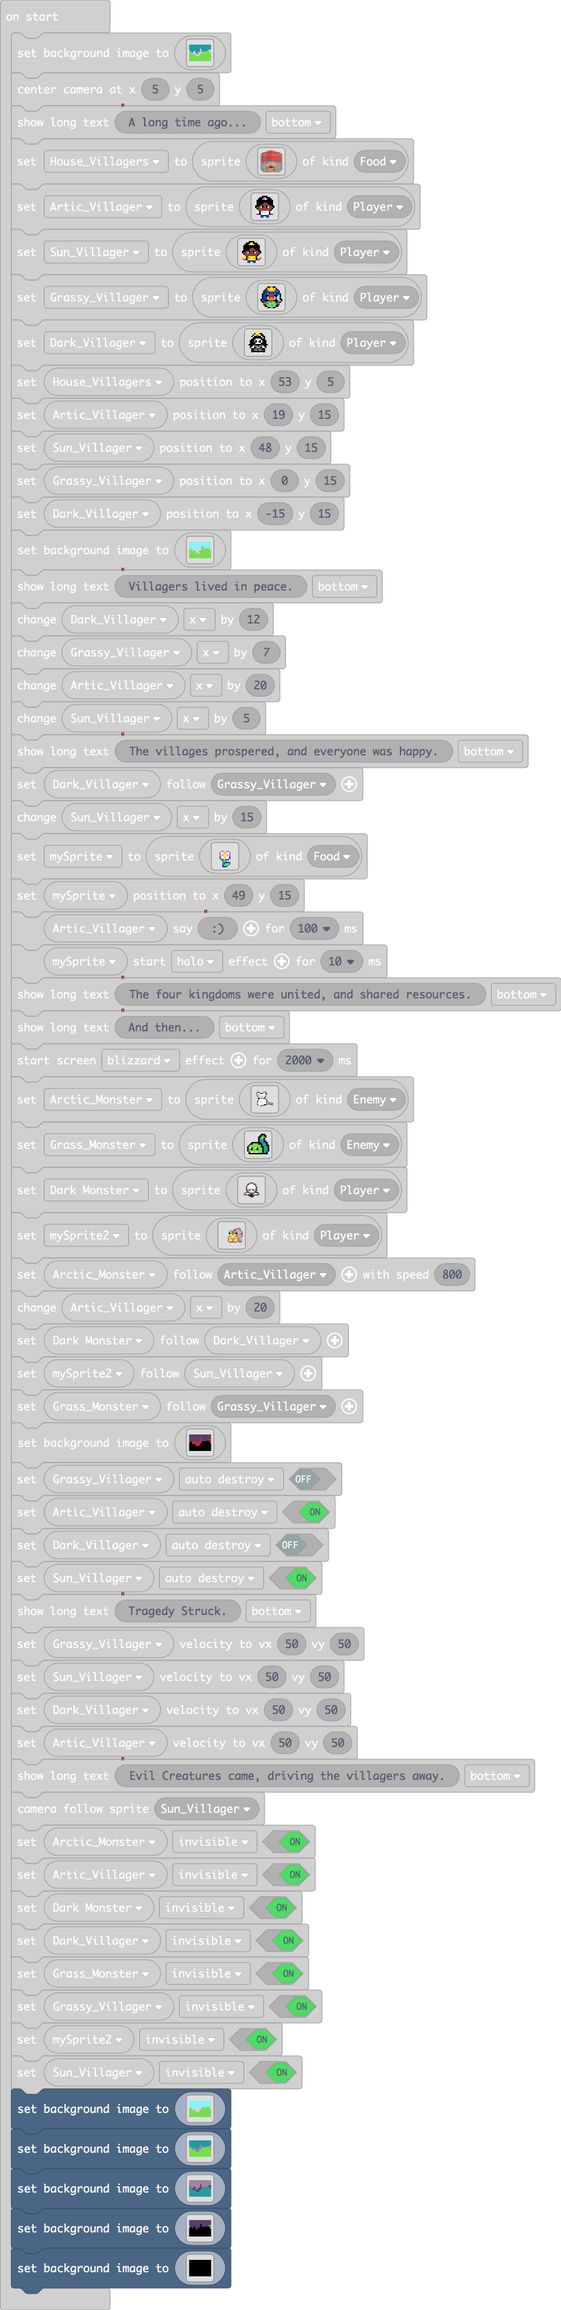
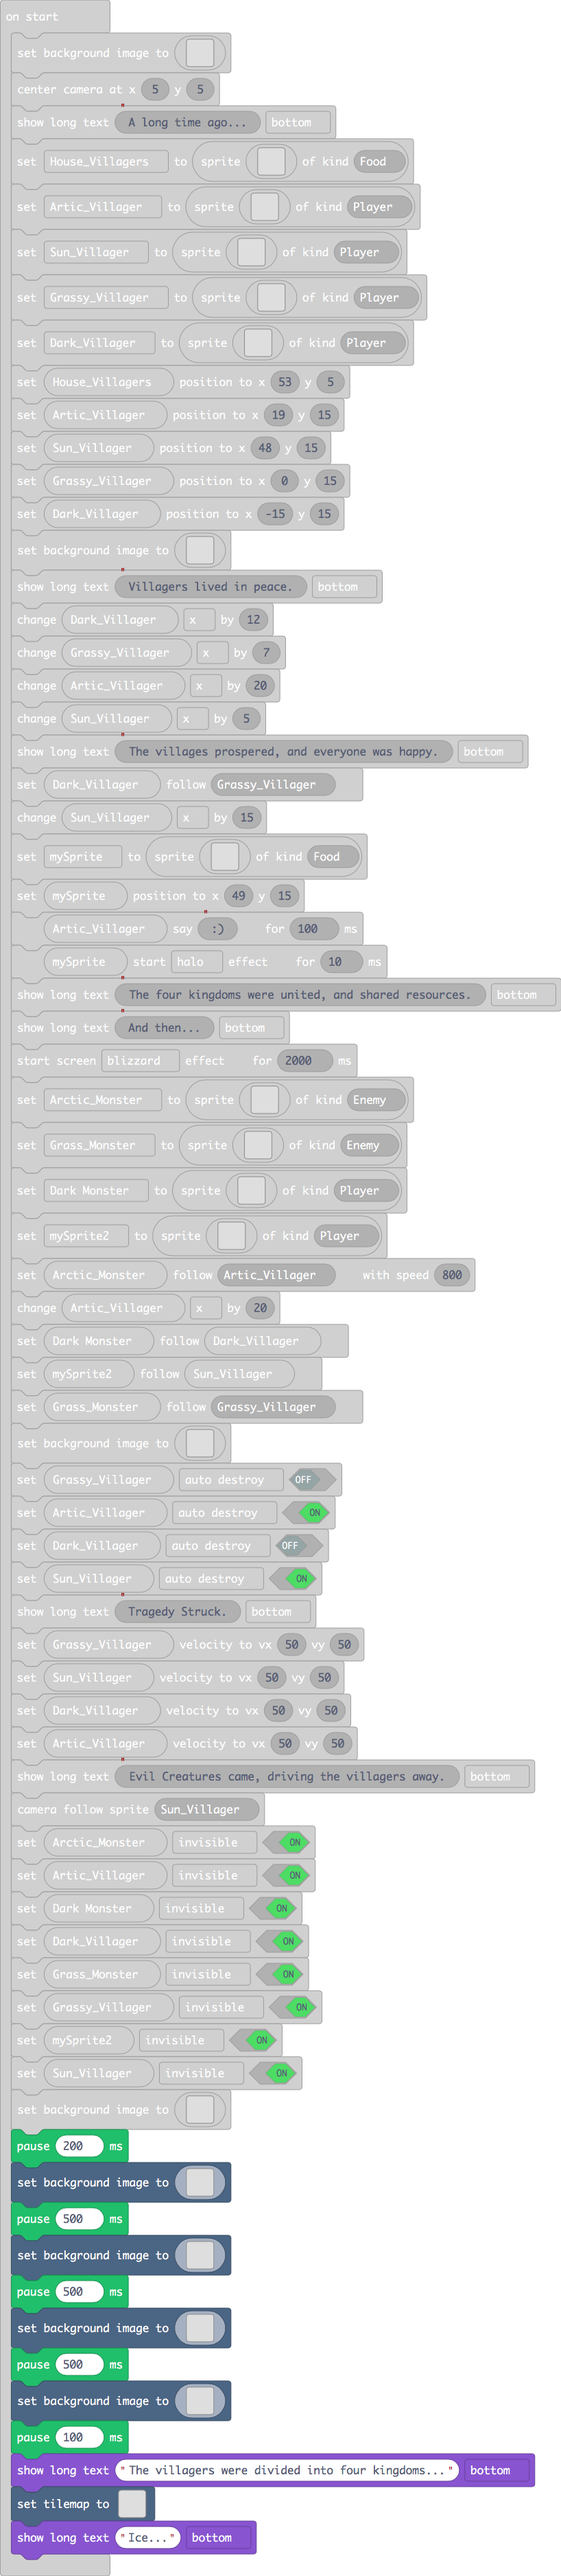
Update main.blocks, main.ts

diff --git a/main.ts b/main.ts
@@ -18,6 +18,63 @@ namespace myTiles {
 . . . . . . . . . . . . . . . . 
 . . . . . . . . . . . . . . . . 
 `
+    //% blockIdentity=images._tile
+    export const tile1 = img`
+1 1 1 1 1 1 1 1 1 1 1 1 1 1 1 1 
+1 1 1 1 1 1 1 1 1 1 1 1 1 1 1 1 
+1 1 1 1 9 9 9 9 9 9 9 1 1 1 1 1 
+1 1 1 9 1 1 1 1 1 1 1 9 1 1 1 1 
+1 1 1 9 1 1 1 1 1 1 1 9 1 1 1 1 
+1 1 1 9 1 1 1 d d d d d d d 1 1 
+1 1 1 9 1 1 d 1 1 1 1 9 1 1 d 1 
+1 1 1 9 1 1 d 1 1 1 1 9 1 1 d 1 
+1 1 1 9 1 1 d 1 1 1 1 9 1 1 d 1 
+1 8 8 8 1 1 d 1 1 1 1 9 1 1 d 1 
+1 8 1 8 9 9 d 9 9 9 9 1 1 1 d 1 
+1 8 8 8 1 1 d 1 1 1 1 1 1 1 d 1 
+1 1 1 1 1 1 d 1 1 1 1 1 1 1 d 1 
+1 1 1 1 1 1 1 d d d d d d d 1 1 
+1 1 1 1 1 1 1 1 1 1 1 1 1 1 1 1 
+1 1 1 1 1 1 1 1 1 1 1 1 1 1 1 1 
+`
+    //% blockIdentity=images._tile
+    export const tile2 = img`
+d d d d d d d d d d d d d d d d 
+d d d d d d d d d d d d d d d d 
+d d d d 8 8 8 8 8 d d d d d d d 
+d d d 8 1 1 1 1 1 8 1 1 1 d d d 
+d d d 8 d d d d d 8 d d 1 d d d 
+d d d 8 d 1 1 1 d 8 d d 1 d d d 
+d d d 8 d 1 d 1 d 8 d d 1 d d d 
+d d d 8 d 1 1 1 d 8 d d 1 d d d 
+d d d 1 8 8 8 8 8 d d d 1 d d d 
+d d d 1 1 1 1 1 1 1 1 1 1 d d d 
+d d d d d d d d d d d d d d d d 
+d d d d d d d d d d d d d d d d 
+d d d d d d d d d d d d d d d d 
+d d d d d d d d d d d d d d d d 
+d d d d d d d d d d d d d d d d 
+d d d d d d d d d d d d d d d d 
+`
+    //% blockIdentity=images._tile
+    export const tile3 = img`
+1 1 1 1 1 1 1 1 1 1 1 1 1 1 1 1 
+1 1 1 1 1 1 1 1 1 1 1 1 1 1 1 1 
+1 1 1 1 1 1 1 1 1 1 1 1 1 1 1 1 
+1 1 1 1 1 1 1 1 1 1 1 1 1 1 1 1 
+1 1 1 1 1 1 1 1 1 1 1 1 1 1 1 1 
+1 1 1 1 1 1 1 1 1 1 1 1 1 1 1 1 
+1 1 1 1 1 1 1 1 1 1 1 1 1 1 1 1 
+1 1 1 1 1 1 1 1 1 1 1 1 1 1 1 1 
+1 6 6 1 1 1 6 6 6 1 1 1 1 1 1 1 
+6 6 6 6 1 6 6 9 6 6 1 1 1 6 6 6 
+9 9 9 6 1 6 9 9 9 6 1 1 1 6 9 9 
+9 9 9 6 6 6 9 9 9 6 6 6 6 6 9 9 
+9 9 9 9 9 9 9 9 9 9 9 9 9 9 9 9 
+9 9 9 9 9 9 9 9 9 9 9 9 9 9 9 9 
+9 9 9 9 9 9 9 9 9 9 9 9 9 9 9 9 
+9 9 9 9 9 9 9 9 9 9 9 9 9 9 9 9 
+`
 }
 scene.setBackgroundImage(img`
 6 6 6 6 6 6 6 6 6 6 6 6 6 6 6 6 6 6 6 6 6 6 6 6 6 6 6 6 6 6 6 6 6 6 6 6 6 6 6 6 6 6 6 6 6 6 6 6 6 6 6 6 6 6 6 6 6 6 6 6 6 6 6 6 6 6 6 6 6 6 6 6 6 6 6 6 6 6 6 6 6 6 6 6 6 6 6 6 6 6 6 6 6 6 6 6 6 6 6 6 6 6 6 6 6 6 6 6 6 6 6 6 6 6 6 6 6 6 6 6 6 6 6 6 6 6 6 6 6 6 6 6 6 6 6 6 6 6 6 6 6 6 6 6 6 6 6 6 6 6 6 6 6 6 6 6 6 6 6 6 
@@ -786,6 +843,7 @@ d 7 7 7 7 7 7 7 7 7 7 7 7 7 7 7 7 7 7 7 7 d d d d d d d d d d d d 7 7 7 7 7 d d 
 7 7 7 7 7 7 7 7 7 7 7 7 7 7 7 7 7 7 7 7 7 7 7 7 7 7 7 7 7 7 7 7 7 7 7 7 7 7 7 7 7 7 7 7 7 7 7 7 7 7 7 7 7 7 7 7 7 7 7 7 7 7 7 7 7 7 7 7 7 7 7 7 7 7 7 7 7 7 7 7 7 7 7 7 7 7 7 7 7 7 7 7 7 7 7 7 7 7 7 7 7 7 7 7 7 7 7 7 7 7 7 7 7 7 7 7 7 7 7 7 7 7 7 7 7 7 7 7 7 7 7 7 7 7 7 7 7 7 7 7 7 7 7 7 7 7 7 7 7 7 7 7 7 7 7 7 7 7 7 7 
 7 7 7 7 7 7 7 7 7 7 7 7 7 7 7 7 7 7 7 7 7 7 7 7 7 7 7 7 7 7 7 7 7 7 7 7 7 7 7 7 7 7 7 7 7 7 7 7 7 7 7 7 7 7 7 7 7 7 7 7 7 7 7 7 7 7 7 7 7 7 7 7 7 7 7 7 7 7 7 7 7 7 7 7 7 7 7 7 7 7 7 7 7 7 7 7 7 7 7 7 7 7 7 7 7 7 7 7 7 7 7 7 7 7 7 7 7 7 7 7 7 7 7 7 7 7 7 7 7 7 7 7 7 7 7 7 7 7 7 7 7 7 7 7 7 7 7 7 7 7 7 7 7 7 7 7 7 7 7 7 
 `)
+pause(200)
 scene.setBackgroundImage(img`
 6 6 6 6 6 6 6 6 6 6 6 6 6 6 6 6 6 6 6 6 6 6 6 6 6 6 6 6 6 6 6 6 6 6 6 6 6 6 6 6 6 6 6 6 6 6 6 6 6 6 6 6 6 6 6 6 6 6 6 6 6 6 6 6 6 6 6 6 6 6 6 6 6 6 6 6 6 6 6 6 6 6 6 6 6 6 6 6 6 6 6 6 6 6 6 6 6 6 6 6 6 6 6 6 6 6 6 6 6 6 6 6 6 6 6 6 6 6 6 6 6 6 6 6 6 6 6 6 6 6 6 6 6 6 6 6 6 6 6 6 6 6 6 6 6 6 6 6 6 6 6 6 6 6 6 6 6 6 6 6 
 6 6 6 6 6 6 6 6 6 6 6 6 6 6 6 6 6 6 6 6 6 6 6 6 6 6 6 6 6 6 6 6 6 6 6 6 6 6 6 6 6 6 6 6 6 6 6 6 6 6 6 6 6 6 6 6 6 6 6 6 6 6 6 6 6 6 6 6 6 6 6 6 6 6 6 6 6 6 6 6 6 6 6 6 6 6 6 6 6 6 6 6 6 6 6 6 6 6 6 6 6 6 6 6 6 6 6 6 6 6 6 6 6 6 6 6 6 6 6 6 6 6 6 6 6 6 6 6 6 6 6 6 6 6 6 6 6 6 6 6 6 6 6 6 6 6 6 6 6 6 6 6 6 6 6 6 6 6 6 6 
@@ -908,6 +966,7 @@ b 7 7 7 7 7 7 7 7 7 7 7 7 7 7 7 7 7 7 7 7 b b b b b b b b b b b b 7 7 7 7 7 b b 
 7 7 7 7 7 7 7 7 7 7 7 7 7 7 7 7 7 7 7 7 7 7 7 7 7 7 7 7 7 7 7 7 7 7 7 7 7 7 7 7 7 7 7 7 7 7 7 7 7 7 7 7 7 7 7 7 7 7 7 7 7 7 7 7 7 7 7 7 7 7 7 7 7 7 7 7 7 7 7 7 7 7 7 7 7 7 7 7 7 7 7 7 7 7 7 7 7 7 7 7 7 7 7 7 7 7 7 7 7 7 7 7 7 7 7 7 7 7 7 7 7 7 7 7 7 7 7 7 7 7 7 7 7 7 7 7 7 7 7 7 7 7 7 7 7 7 7 7 7 7 7 7 7 7 7 7 7 7 7 7 
 7 7 7 7 7 7 7 7 7 7 7 7 7 7 7 7 7 7 7 7 7 7 7 7 7 7 7 7 7 7 7 7 7 7 7 7 7 7 7 7 7 7 7 7 7 7 7 7 7 7 7 7 7 7 7 7 7 7 7 7 7 7 7 7 7 7 7 7 7 7 7 7 7 7 7 7 7 7 7 7 7 7 7 7 7 7 7 7 7 7 7 7 7 7 7 7 7 7 7 7 7 7 7 7 7 7 7 7 7 7 7 7 7 7 7 7 7 7 7 7 7 7 7 7 7 7 7 7 7 7 7 7 7 7 7 7 7 7 7 7 7 7 7 7 7 7 7 7 7 7 7 7 7 7 7 7 7 7 7 7 
 `)
+pause(500)
 scene.setBackgroundImage(img`
 b b b b b b b b b b b b b b b b b b b b b b b b b b b b b b b b b b b b b b b b b b b b b b b b b b b b b b b b b b b b b b b b b b b b b b b b b b b b b b b b b b b b b b b b b b b b b b b b b b b b b b b b b b b b b b b b b b b b b b b b b b b b b b b b b b b b b b b b b b b b b b b b b b b b b b b b b b b b b b b b 
 b b b b b b b b b b b b b b b b b b b b b b b b b b b b b b b b b b b b b b b b b b b b b b b b b b b b b b b b b b b b b b b b b b b b b b b b b b b b b b b b b b b b b b b b b b b b b b b b b b b b b b b b b b b b b b b b b b b b b b b b b b b b b b b b b b b b b b b b b b b b b b b b b b b b b b b b b b b b b b b b 
@@ -1030,6 +1089,7 @@ c 6 6 6 6 6 6 6 6 6 6 6 6 6 6 6 6 6 6 6 6 c c c c c c c c c c c c 6 6 6 6 6 c c 
 6 6 6 6 6 6 6 6 6 6 6 6 6 6 6 6 6 6 6 6 6 6 6 6 6 6 6 6 6 6 6 6 6 6 6 6 6 6 6 6 6 6 6 6 6 6 6 6 6 6 6 6 6 6 6 6 6 6 6 6 6 6 6 6 6 6 6 6 6 6 6 6 6 6 6 6 6 6 6 6 6 6 6 6 6 6 6 6 6 6 6 6 6 6 6 6 6 6 6 6 6 6 6 6 6 6 6 6 6 6 6 6 6 6 6 6 6 6 6 6 6 6 6 6 6 6 6 6 6 6 6 6 6 6 6 6 6 6 6 6 6 6 6 6 6 6 6 6 6 6 6 6 6 6 6 6 6 6 6 6 
 6 6 6 6 6 6 6 6 6 6 6 6 6 6 6 6 6 6 6 6 6 6 6 6 6 6 6 6 6 6 6 6 6 6 6 6 6 6 6 6 6 6 6 6 6 6 6 6 6 6 6 6 6 6 6 6 6 6 6 6 6 6 6 6 6 6 6 6 6 6 6 6 6 6 6 6 6 6 6 6 6 6 6 6 6 6 6 6 6 6 6 6 6 6 6 6 6 6 6 6 6 6 6 6 6 6 6 6 6 6 6 6 6 6 6 6 6 6 6 6 6 6 6 6 6 6 6 6 6 6 6 6 6 6 6 6 6 6 6 6 6 6 6 6 6 6 6 6 6 6 6 6 6 6 6 6 6 6 6 6 
 `)
+pause(500)
 scene.setBackgroundImage(img`
 c c c c c c c c c c c c c c c c c c c c c c c c c c c c c c c c c c c c c c c c c c c c c c c c c c c c c c c c c c c c c c c c c c c c c c c c c c c c c c c c c c c c c c c c c c c c c c c c c c c c c c c c c c c c c c c c c c c c c c c c c c c c c c c c c c c c c c c c c c c c c c c c c c c c c c c c c c c c c c c c 
 c c c c c c c c c c c c c c c c c c c c c c c c c c c c c c c c c c c c c c c c c c c c c c c c c c c c c c c c c c c c c c c c c c c c c c c c c c c c c c c c c c c c c c c c c c c c c c c c c c c c c c c c c c c c c c c c c c c c c c c c c c c c c c c c c c c c c c c c c c c c c c c c c c c c c c c c c c c c c c c c 
@@ -1152,6 +1212,7 @@ f f f f f f f f f f f f f f f f f f f f f f f f f f f f f f f f f f f f f f f f 
 f f f f f f f f f f f f f f f f f f f f f f f f f f f f f f f f f f f f f f f f f f f f f f f f f f f f f f f f f f f f f f f f f f f f f f f f f f f f f f f f f f f f f f f f f f f f f f f f f f f f f f f f f f f f f f f f f f f f f f f f f f f f f f f f f f f f f f f f f f f f f f f f f f f f f f f f f f f f f f f f 
 f f f f f f f f f f f f f f f f f f f f f f f f f f f f f f f f f f f f f f f f f f f f f f f f f f f f f f f f f f f f f f f f f f f f f f f f f f f f f f f f f f f f f f f f f f f f f f f f f f f f f f f f f f f f f f f f f f f f f f f f f f f f f f f f f f f f f f f f f f f f f f f f f f f f f f f f f f f f f f f f 
 `)
+pause(500)
 scene.setBackgroundImage(img`
 f f f f f f f f f f f f f f f f f f f f f f f f f f f f f f f f f f f f f f f f f f f f f f f f f f f f f f f f f f f f f f f f f f f f f f f f f f f f f f f f f f f f f f f f f f f f f f f f f f f f f f f f f f f f f f f f f f f f f f f f f f f f f f f f f f f f f f f f f f f f f f f f f f f f f f f f f f f f f f f f 
 f f f f f f f f f f f f f f f f f f f f f f f f f f f f f f f f f f f f f f f f f f f f f f f f f f f f f f f f f f f f f f f f f f f f f f f f f f f f f f f f f f f f f f f f f f f f f f f f f f f f f f f f f f f f f f f f f f f f f f f f f f f f f f f f f f f f f f f f f f f f f f f f f f f f f f f f f f f f f f f f 
@@ -1274,3 +1335,29 @@ f f f f f f f f f f f f f f f f f f f f f f f f f f f f f f f f f f f f f f f f 
 f f f f f f f f f f f f f f f f f f f f f f f f f f f f f f f f f f f f f f f f f f f f f f f f f f f f f f f f f f f f f f f f f f f f f f f f f f f f f f f f f f f f f f f f f f f f f f f f f f f f f f f f f f f f f f f f f f f f f f f f f f f f f f f f f f f f f f f f f f f f f f f f f f f f f f f f f f f f f f f f 
 f f f f f f f f f f f f f f f f f f f f f f f f f f f f f f f f f f f f f f f f f f f f f f f f f f f f f f f f f f f f f f f f f f f f f f f f f f f f f f f f f f f f f f f f f f f f f f f f f f f f f f f f f f f f f f f f f f f f f f f f f f f f f f f f f f f f f f f f f f f f f f f f f f f f f f f f f f f f f f f f 
 `)
+pause(100)
+game.showLongText("The villagers were divided into four kingdoms...", DialogLayout.Bottom)
+tiles.setTilemap(tiles.createTilemap(
+            hex`1000100003030303030303030303030303030303030505050505050505050505050505030305050505050505050505050505050303050505050505050505050505050503030505050505050505050505050505030305050505050505050505050505050303050505050505050505050505050503030505050505050505050505050505030305050505050505050505050505050303050505050505050505050505050503030505050505050505050505050505030305050505050505050505050505050303050505050505050505050505050503030505050505050505050505050505030305050505050505050505050505050303030303030303030303030303030303`,
+            img`
+. . . . . . . . . . . . . . . . 
+. . . . . . . . . . . . . . . . 
+. . . . . . . . . . . . . . . . 
+. . . . . . . . . . . . . . . . 
+. . . . . . . . . . . . . . . . 
+. . . . . . . . . . . . . . . . 
+. . . . . . . . . . . . . . . . 
+. . . . . . . . . . . . . . . . 
+. . . . . . . . . . . . . . . . 
+. . . . . . . . . . . . . . . . 
+. . . . . . . . . . . . . . . . 
+. . . . . . . . . . . . . . . . 
+. . . . . . . . . . . . . . . . 
+. . . . . . . . . . . . . . . . 
+. . . . . . . . . . . . . . . . 
+. . . . . . . . . . . . . . . . 
+`,
+            [myTiles.tile0,sprites.builtin.coral2,sprites.castle.tilePath5,myTiles.tile1,myTiles.tile2,myTiles.tile3],
+            TileScale.Sixteen
+        ))
+game.showLongText("Ice...", DialogLayout.Bottom)
